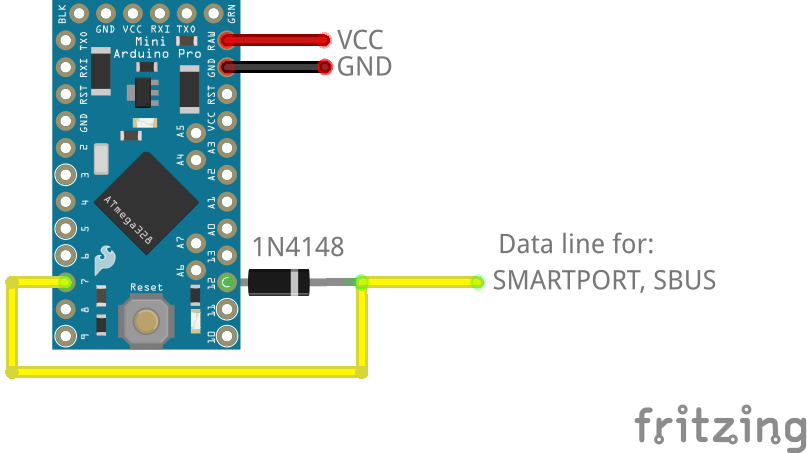
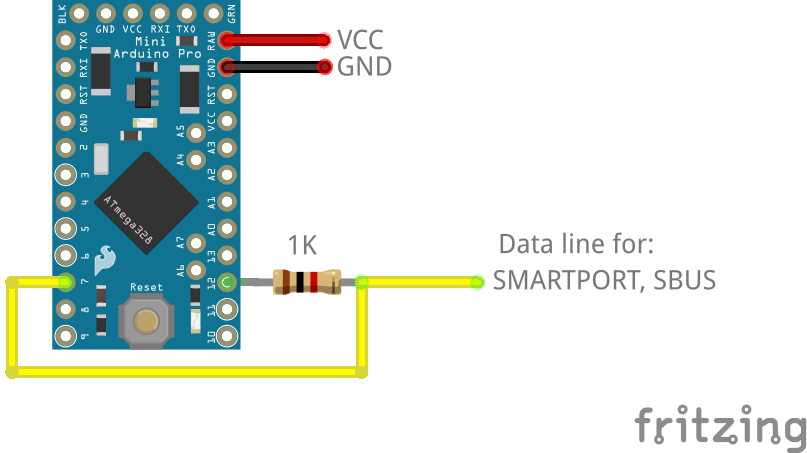
Remove diode

Changed region(s): [[0.2788, 0.5254, 0.4647, 0.6799]]

diff --git a/README.md b/README.md
@@ -73,13 +73,13 @@ ATmega boards at 5v (16Mhz) may not read properly serial port when using ESC ser
 | XBUS NPN clock stretch<sup>(4)</sup> | 13 | 13 | 13 | PB5(9) | 13 |
 
 (1) with 3.3k pull up resistor  
-(2) diode 1N4148. Note the inverted orientation of the diode for Frsky and SBUS. Alternatively 1k to 3.3k resistor can be used  
+(2) 1k resistor
 (3) If using i2c_t3 library connect I2C sensor to pins 23 (SDA1) and 22 (SCL1)  
 (4) optional. Only if needed. If connected, enable XBUS_CLOCK_STRECH_SWITCH in config.h  
 (5) If using serial ESC  
 (6) If using GPS  
-(7) If using serial ESC and GPS. If using a diode, the diode line towards the pin  
-(8) If using serial ESC or GPS. If using a diode, the diode line towards the pin  
+(7) If using serial ESC and GPS  
+(8) If using serial ESC or GPS
 
 
 ## 2. Receiver protocol
@@ -100,10 +100,10 @@ Depending on the receiver protocol connect to the Rx as follows
 
 ### ATmega boards
 
-1N4148 diode or 1k to 3.3k resistor
+1k resistor
 
 <p align="center"><img src="./images/frsky_smartport_sbus.png" width="400"><br>
-<i>Frsky Smartport, SBUS</br>or SRXL, IBUS, SB, Jeti Ex Bus and boards with no available UARTS, as being used for ESC serial or GPS (if using a diode, then invert orientation) </i><br><br></p>
+<i>Frsky Smartport, SBUS</br>or SRXL, IBUS, SB, Jeti Ex Bus and boards with no available UARTS, as being used for ESC serial or GPS</i><br><br></p>
 
 <p align="center"><img src="./images/srxl_ibus_sb.png" width="460"><br>
 <i>SRXL, IBUS, SB, Jeti Ex Bus</i><br><br></p>
